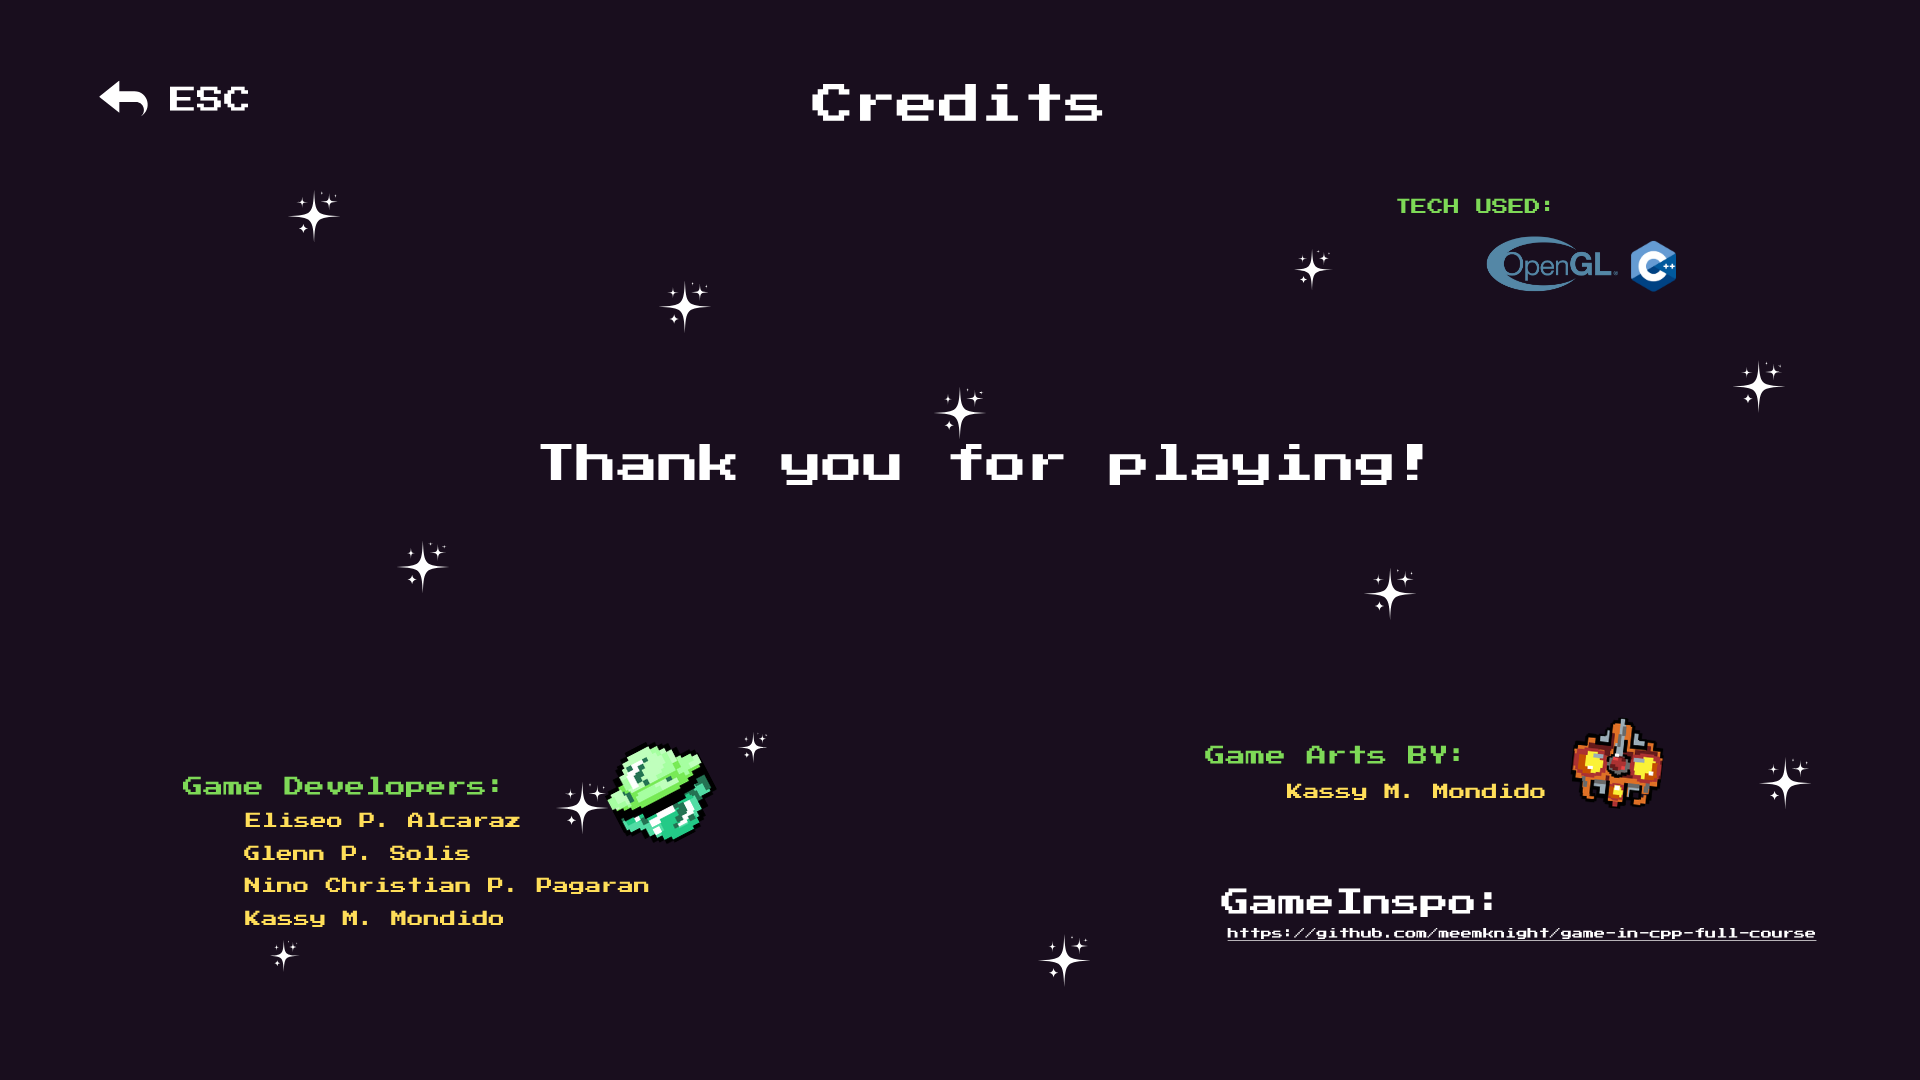
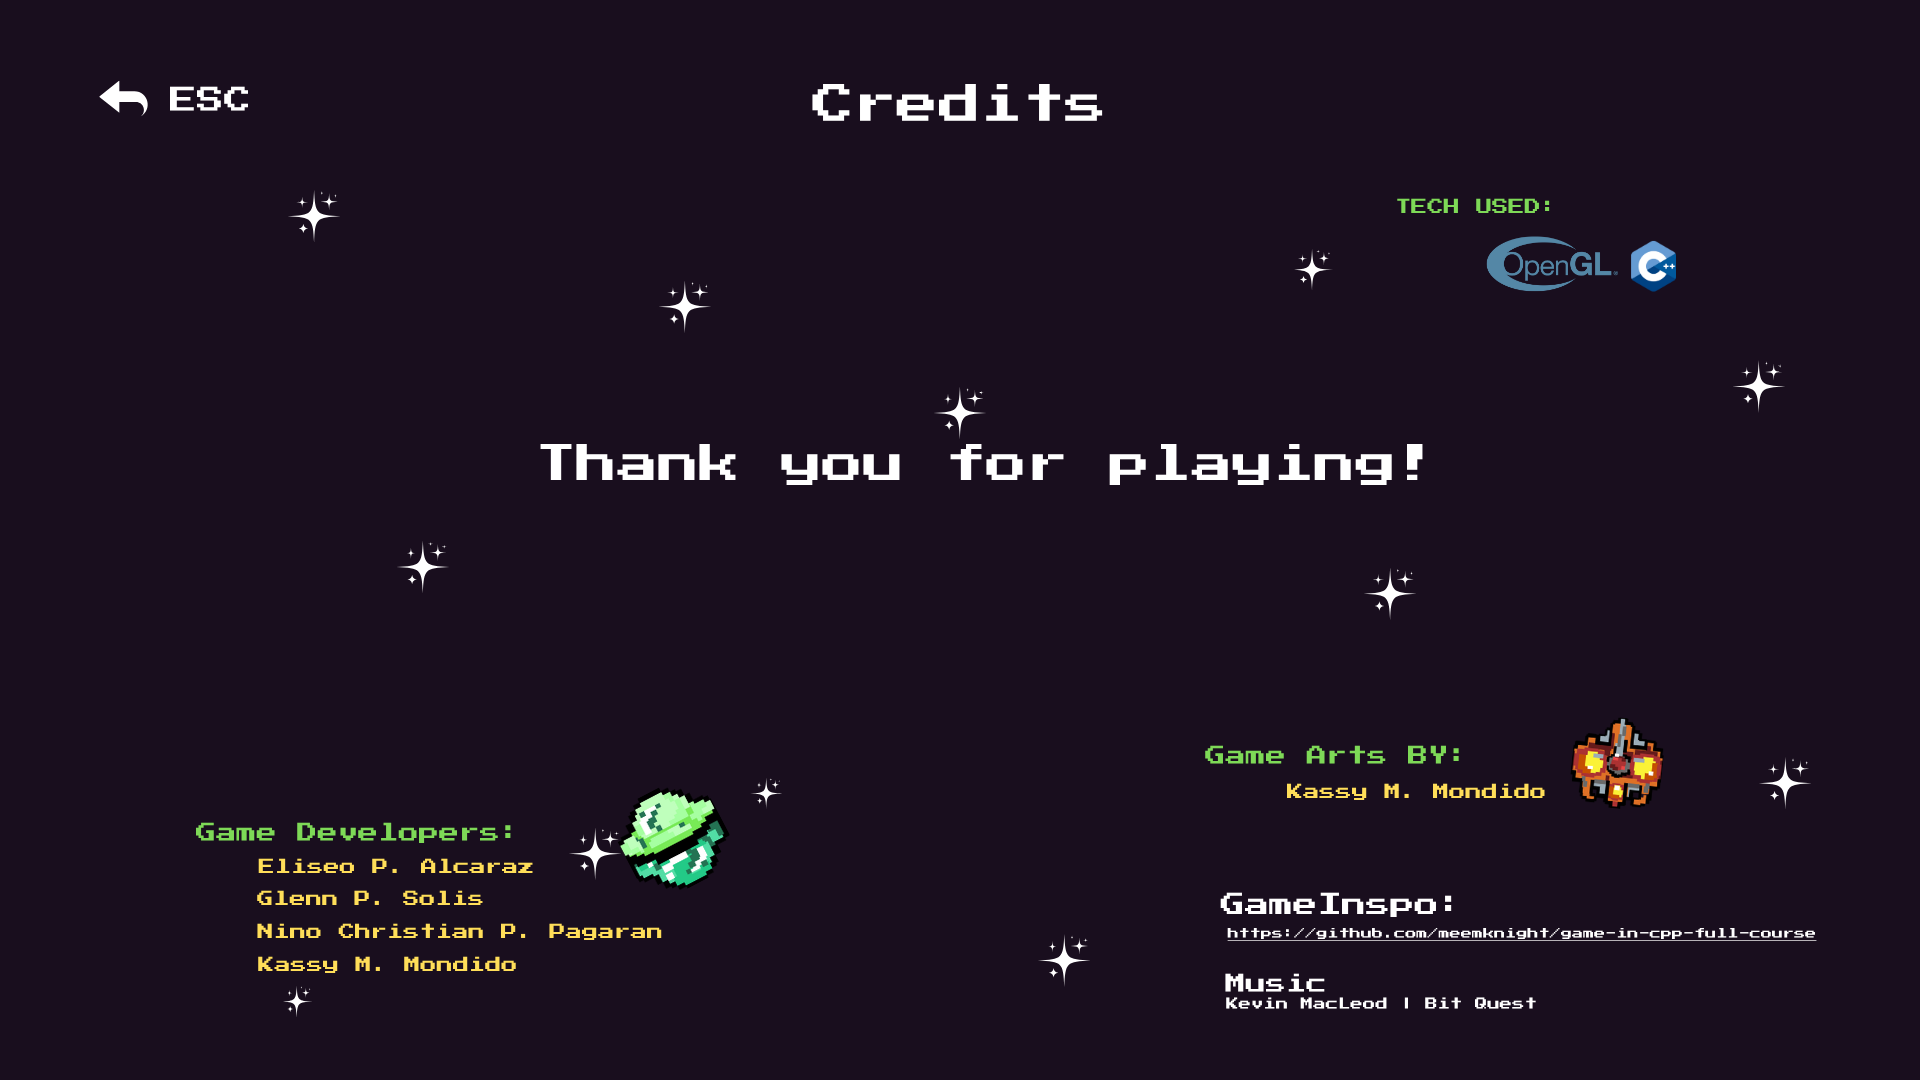
add music

diff --git a/src/gameLayer/gameLayer.cpp b/src/gameLayer/gameLayer.cpp
@@ -53,7 +53,7 @@ enum Level {
 
 #pragma region initial states
 
-Gamestate currentGameState = GAMEOVER;
+Gamestate currentGameState = MAIN_MENU;
 Level currentLevel = EASY;
 
 #pragma endregion
@@ -206,7 +206,9 @@ bool initGame() {
   gameOverSound = LoadSound(RESOURCES_PATH "target.ogg");
   SetSoundVolume(gameOverSound, 0.3);
   ingameSound = LoadSound(RESOURCES_PATH "ingame.ogg");
-  SetSoundVolume(ingameSound, 0.5);
+  SetSoundVolume(ingameSound, 0.1);
+
+  PlaySound(ingameSound);
 
   font.createFromFile(RESOURCES_PATH "Minecraft.ttf");
 
@@ -473,7 +475,6 @@ int changeLevelByScore = 0;
 
 float frameBullentLatency = 0.0f;
 int framexBullet = 0;
-
 
 void gameplay(float deltaTime, int w, int h) {
 
